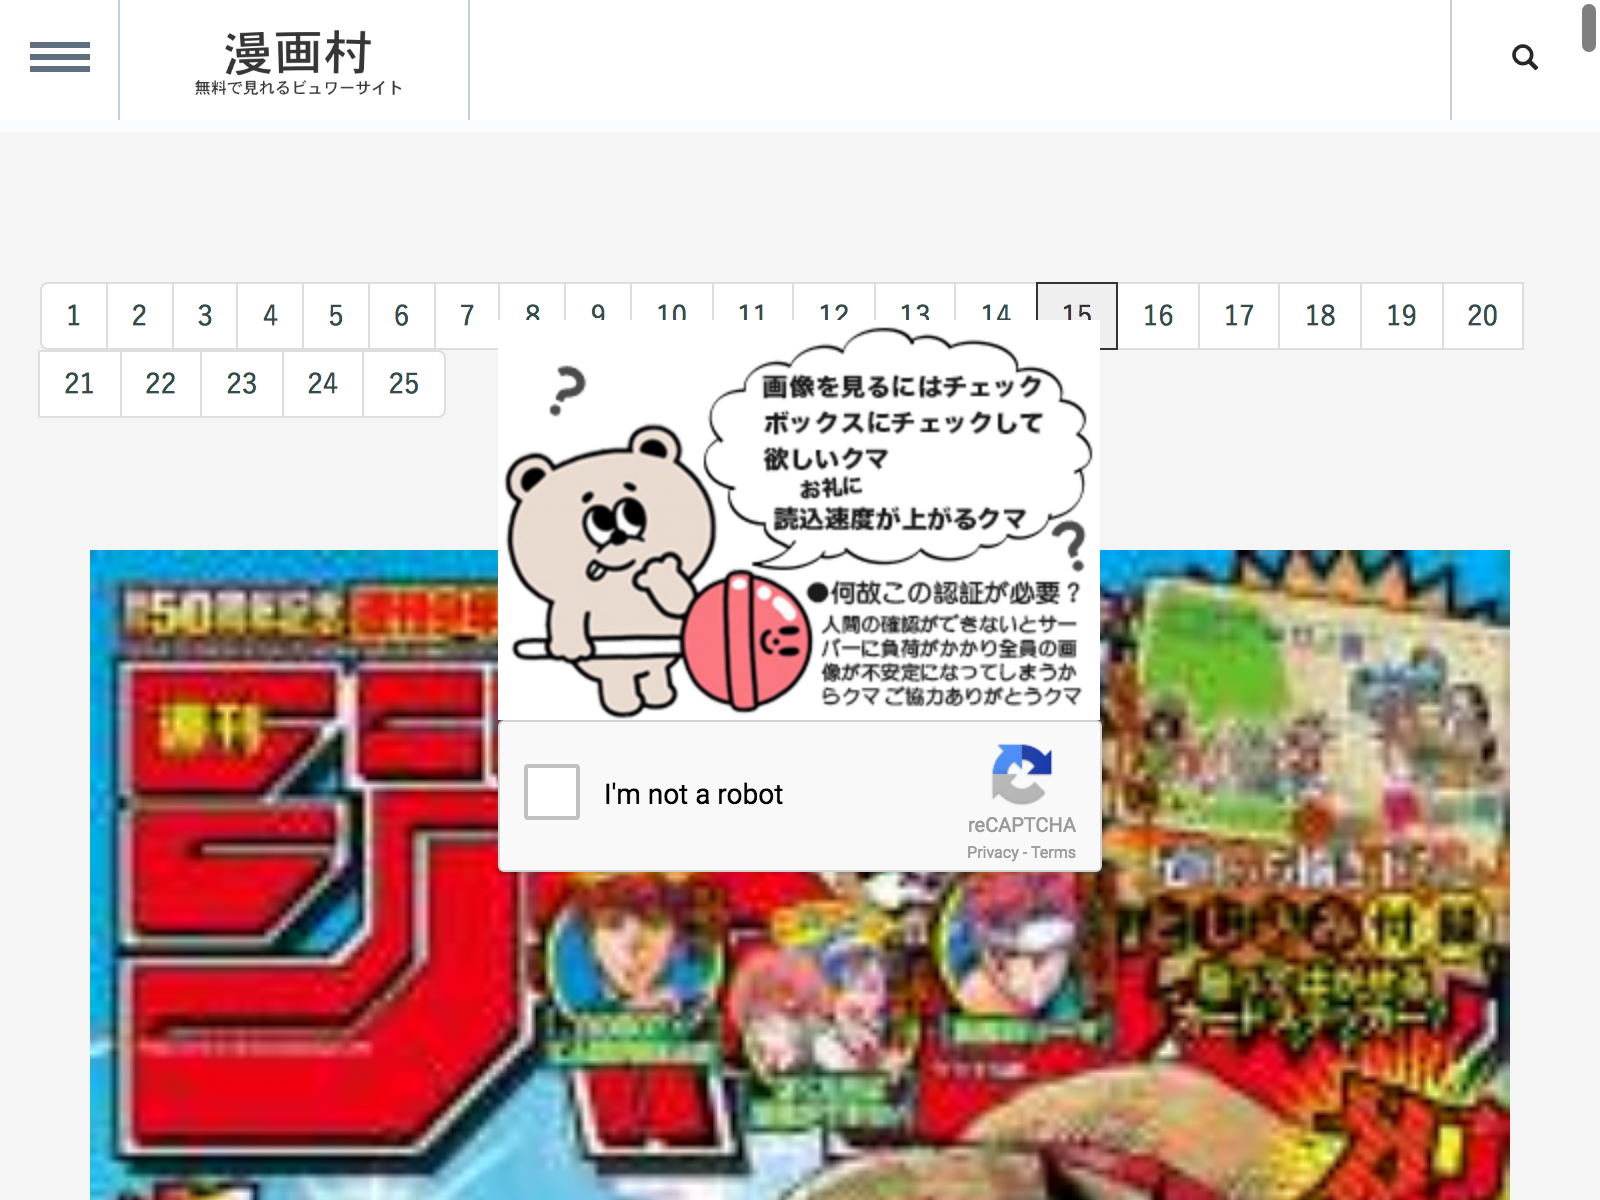
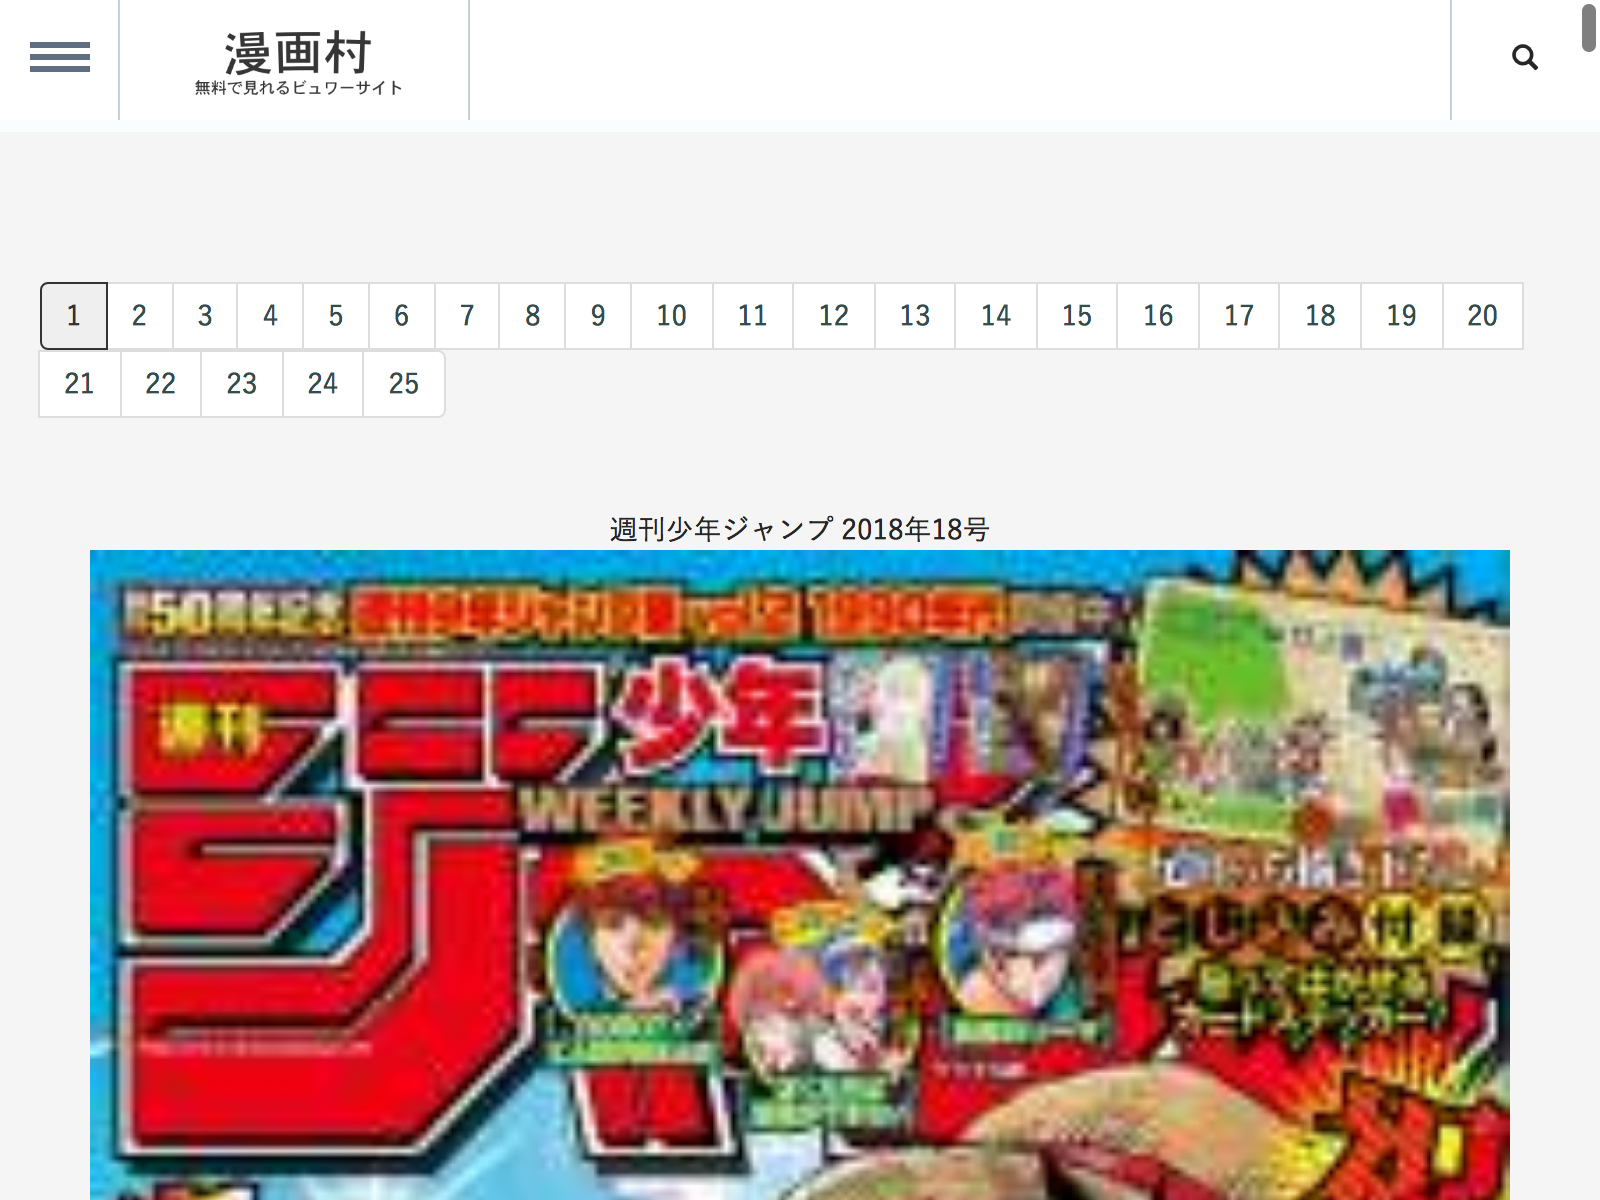
ベースクラス構成作成

Changed region(s): [[0.3125, 0.2467, 0.6875, 0.74], [0.3438, 0.2775, 0.375, 0.3392], [0.6562, 0.2467, 0.6875, 0.2775]]

diff --git a/manga_dl/recaptcha.py b/manga_dl/recaptcha.py
@@ -1,0 +1,107 @@
+import time
+import re, csv
+from random import uniform, randint
+
+from selenium import webdriver
+from selenium.webdriver.common.by import By
+from selenium.webdriver.support.wait import WebDriverWait
+from selenium.webdriver.common.action_chains import ActionChains
+from selenium.webdriver.support import expected_conditions as EC
+from selenium.common.exceptions import NoSuchElementException
+
+
+def write_stat(loops, time):
+    with open('stat.csv', 'a', newline='') as csvfile:
+        spamwriter = csv.writer(csvfile, delimiter=',',
+                                quotechar='"', quoting=csv.QUOTE_MINIMAL)
+        spamwriter.writerow([loops, time])
+
+def check_exists_by_xpath(driver, xpath):
+    try:
+        driver.find_element_by_xpath(xpath)
+    except NoSuchElementException:
+        return False
+    return True
+
+def wait_between(a,b):
+    rand=uniform(a, b)
+    time.sleep(rand)
+
+def dimention(driver):
+    d = int(driver.find_element_by_xpath('//div[@id="rc-imageselect-target"]/table').get_attribute("class")[-1]);
+    return d if d else 3  # dimention is 3 by default
+
+# ***** main procedure to identify and submit picture solution
+def solve_images(driver):
+    WebDriverWait(driver, 10).until(
+        EC.presence_of_element_located((By.ID ,"rc-imageselect-target"))
+        )
+    dim = dimention(driver)
+    # ****************** check if there is a clicked tile ******************
+    if check_exists_by_xpath(driver, '//div[@id="rc-imageselect-target"]/table/tbody/tr/td[@class="rc-imageselect-tileselected"]'):
+        rand2 = 0
+    else:
+        rand2 = 1
+
+    # wait before click on tiles
+    wait_between(0.5, 1.0)
+    # ****************** click on a tile ******************
+    tile1 = WebDriverWait(driver, 10).until(
+        EC.element_to_be_clickable((By.XPATH ,   '//div[@id="rc-imageselect-target"]/table/tbody/tr[{0}]/td[{1}]'.format(randint(1, dim), randint(1, dim ))))
+        )
+    tile1.click()
+    if (rand2):
+        try:
+            driver.find_element_by_xpath('//div[@id="rc-imageselect-target"]/table/tbody/tr[{0}]/td[{1}]'.format(randint(1, dim), randint(1, dim))).click()
+        except NoSuchElementException:
+            print('\n\r No Such Element Exception for finding 2nd tile')
+
+
+    #****************** click on submit buttion ******************
+    driver.find_element_by_id("recaptcha-verify-button").click()
+
+def brute_force_attach(driver):
+    mainWin = driver.current_window_handle
+
+    # move the driver to the first iFrame
+    driver.switch_to_frame(driver.find_elements_by_tag_name("iframe")[0])
+
+    # *************  locate CheckBox  **************
+    CheckBox = WebDriverWait(driver, 10).until(
+            EC.presence_of_element_located((By.ID ,"recaptcha-anchor"))
+            )
+
+    # *************  click CheckBox  ***************
+    wait_between(0.5, 0.7)
+    # making click on captcha CheckBox
+    CheckBox.click()
+
+    #***************** back to main window **************************************
+    driver.switch_to_window(mainWin)
+
+    wait_between(2.0, 2.5)
+
+    # ************ switch to the second iframe by tag name ******************
+    driver.switch_to_frame(driver.find_elements_by_tag_name("iframe")[1])
+    i=1
+    while i<130:
+        print('\n\r{0}-th loop'.format(i))
+        # ******** check if checkbox is checked at the 1st frame ***********
+        driver.switch_to_window(mainWin)
+        WebDriverWait(driver, 10).until(
+            EC.frame_to_be_available_and_switch_to_it((By.TAG_NAME , 'iframe'))
+            )
+        wait_between(1.0, 2.0)
+        if check_exists_by_xpath('//span[@aria-checked="true"]'):
+            import winsound
+            winsound.Beep(400,1500)
+            write_stat(i, round(time.time()-start) - 1 ) # saving results into stat file
+            return True
+
+        driver.switch_to_window(mainWin)
+        # ********** To the second frame to solve pictures *************
+        wait_between(0.3, 1.5)
+        driver.switch_to_frame(driver.find_elements_by_tag_name("iframe")[1])
+        solve_images(driver)
+        i=i+1
+    return False

diff --git a/manga_dl/browser.py b/manga_dl/browser.py
@@ -1,0 +1,56 @@
+import time
+import re, csv
+from random import uniform, randint
+
+from selenium import webdriver
+from selenium.webdriver.common.keys import Keys
+from selenium.webdriver.chrome.options import Options
+from selenium.webdriver.common.by import By
+from selenium.webdriver.support.wait import WebDriverWait
+from selenium.webdriver.common.action_chains import ActionChains
+from selenium.webdriver.support import expected_conditions as EC
+from selenium.common.exceptions import NoSuchElementException
+
+
+class HeadlessBrowser(object):
+    def __init__(self, attacker=None, driver_path=None, browser_path=None):
+        self.attach = attacker
+        self.driver = self.load_driver(executable_path=driver_path, binary_location=browser_path)
+
+    def load_driver(self, binary_location=None, executable_path=None):
+        options = Options()
+        options.binary_location = binary_location
+        options.add_argument('--headless')
+        driver = webdriver.Chrome(chrome_options=options, executable_path=executable_path)
+        return driver
+
+    def request(self, url):
+        self.driver.get(url)
+
+    def wait_parse(self, parser, sleep_time=1, timeout=10):
+        sleep_count = 0
+        images = parser(self.driver)
+        while not images:
+            sleep_count += 1
+            time.sleep(sleep_time)
+            print('waiting...')
+            if sleep_count == timeout:
+                success = self.attach(self.driver)
+                if success:
+                    sleep_count = 0
+            if sleep_count > timeout:
+                self.driver.save_screenshot('../error-screen.png')
+                raise Exception('Time out')
+            images = parser(self.driver)
+            self.driver.save_screenshot('../error-screen.png')
+        return images
+
+    def get_next_page(self, pagination_parser):
+        current_page = pagination_parser.get_current_page(self.driver)
+        pages = pagination_parser.get_pages(self.driver)
+        if current_page >= pages:
+            raise Exception('Next page does not exist.')
+        return current_page + 1
+
+    def stop_crawl(self):
+        self.driver.quit()

diff --git a/manga_dl/engine.py b/manga_dl/engine.py
@@ -1,0 +1,41 @@
+from .browser import HeadlessBrowser
+from .dl import wget_image
+from .recaptcha import brute_force_attach
+from .parser import MangamuraParser
+
+
+class MangamuraCrawler(object):
+    def __init__(self, parameter, single=True, dest='../images', driver_path=None, browser_path=None):
+        self.base_url = 'http://mangamura.org/old_viewer?p={}'
+        self.parameter = parameter
+        self.single = single
+        options = {
+            'attacker': brute_force_attach,
+            'driver_path': driver_path,
+            'browser_path': browser_path
+        }
+        print("Chrome Browser Initialized in Headless Mode")
+        self.browser = HeadlessBrowser(**options)
+
+    def crawl(self, page=1):
+        # [TODO: タブ管理機能]
+        # tab = self.browser.create_tab()
+        # ↑ crawlerで各タブに対する司令を管理
+
+        # 1. 漫画ページを読み込む
+        url = self.base_url.format(page)
+        self.browser.request(url)
+        # 2. 画像のURLを取得
+        # パーサーに定義されたタグが見つからない場合は
+        # レンダリングされるまで待つ。レンダリングすらされない場合は
+        # recaptchaが表示されているため、attackを内部で呼び出している
+        images = self.browser.wait_parse(MangamuraParser.find_images)
+        # 3. 取得した画像をダウンロード
+        for image in images:
+            wget_image(image, dest)
+        # 4. 次のページへ
+        try:
+            next_page = self.browser.get_next_page(MangamuraParser.Pagination)
+        except Exception:
+            self.browser.stop_crawl()
+        self.crawl(next_page)

diff --git a/cli.py b/cli.py
@@ -2,10 +2,17 @@ import os
 import wget
 import time
 import click
+import re, csv
+from random import uniform, randint
 
 from selenium import webdriver
 from selenium.webdriver.common.keys import Keys
 from selenium.webdriver.chrome.options import Options
+from selenium.webdriver.common.by import By
+from selenium.webdriver.support.wait import WebDriverWait
+from selenium.webdriver.common.action_chains import ActionChains
+from selenium.webdriver.support import expected_conditions as EC
+from selenium.common.exceptions import NoSuchElementException
 
 
 
@@ -45,6 +52,7 @@ def download_image(url, dest_dir, page, idx):
     # except urllib.error.URLError as e:
     #     print(e)
 
+
 def crawl_page(driver, url, dest_dir, page=1, timeout=10):
     target_url = '{}&paged={}'.format(url, page)
     driver.get(target_url)
@@ -53,6 +61,10 @@ def crawl_page(driver, url, dest_dir, page=1, timeout=10):
         sleep_count += 1
         time.sleep(1)
         print('waiting...')
+        if sleep_count == timeout:
+            success = brute_force_attach_recaptcha(driver)
+            if success:
+                sleep_count = 0
         if sleep_count > timeout:
             driver.save_screenshot('error-screen.png')
             raise Exception('Time out')
@@ -65,8 +77,9 @@ def crawl_page(driver, url, dest_dir, page=1, timeout=10):
         crawl_page(driver, url, dest_dir, page=next_page)
 
 @click.command()
-@click.argument('url')
-def command(url):
+@click.argument('p')
+def command(p):
+    url = 'http://mangamura.org/old_viewer?p={}'.format(p)
     driver = load_driver()
     print("Chrome Browser Initialized in Headless Mode")
     dest_dir = os.path.join(os.path.dirname(__file__), 'images')

diff --git a/manga_dl/cli.py b/manga_dl/cli.py
@@ -1,0 +1,21 @@
+import os
+import click
+
+from .engine import MangamuraCrawler
+
+
+BASE_DIR = os.path.dirname(os.path.abspath(__file__))
+
+
+browser_path = os.path.join(BASE_DIR, '../Google Chrome Canary.app/Contents/MacOS/Google Chrome Canary')
+driver_path = '/usr/local/Cellar/chromedriver/2.37/bin/chromedriver'
+
+
+@click.command()
+@click.argument('p')
+def command(p):
+    dest = os.path.join(BASE_DIR, '../images')
+    if not os.path.exists(dest):
+        os.mkdir(dest)
+    crawler = MangamuraCrawler(p, single=True, dest=dest, driver_path=driver_path, browser_path=browser_path)
+    crawler.crawl()

diff --git a/manga_dl/parser.py b/manga_dl/parser.py
@@ -1,0 +1,13 @@
+class MangamuraParser(object):
+    @classmethod
+    def find_images(cls, driver):
+        return driver.find_elements_by_css_selector('.container.maincontents .slider img')
+
+    class Pagination(object):
+        @classmethod
+        def get_current_page(cls, driver):
+            return int(driver.find_elements_by_css_selector('.pagination li.active a')[0].get_attribute('value'))
+
+        @classmethod
+        def get_pages(cls, driver):
+            return len(driver.find_elements_by_css_selector('.pagination li'))

diff --git a/main.py b/main.py
@@ -1,0 +1,4 @@
+from manga_dl.cli import command
+
+if __name__ == '__main__':
+    command()

diff --git a/manga_dl/dl.py b/manga_dl/dl.py
@@ -1,0 +1,2 @@
+def wget_image(image_urls, dest):
+    print(image_urls)
